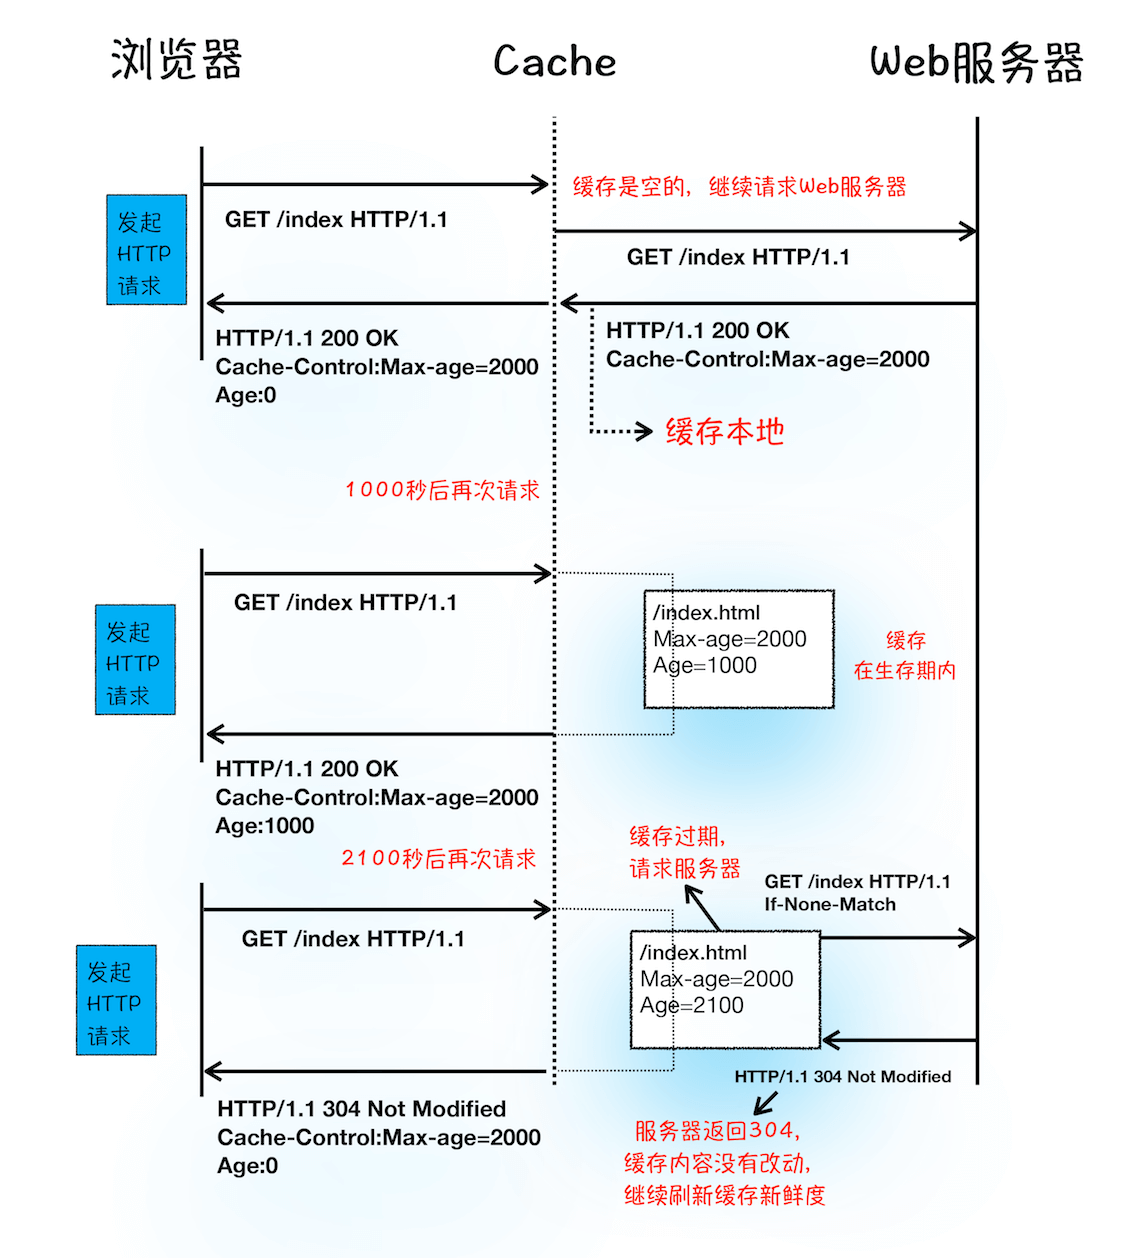
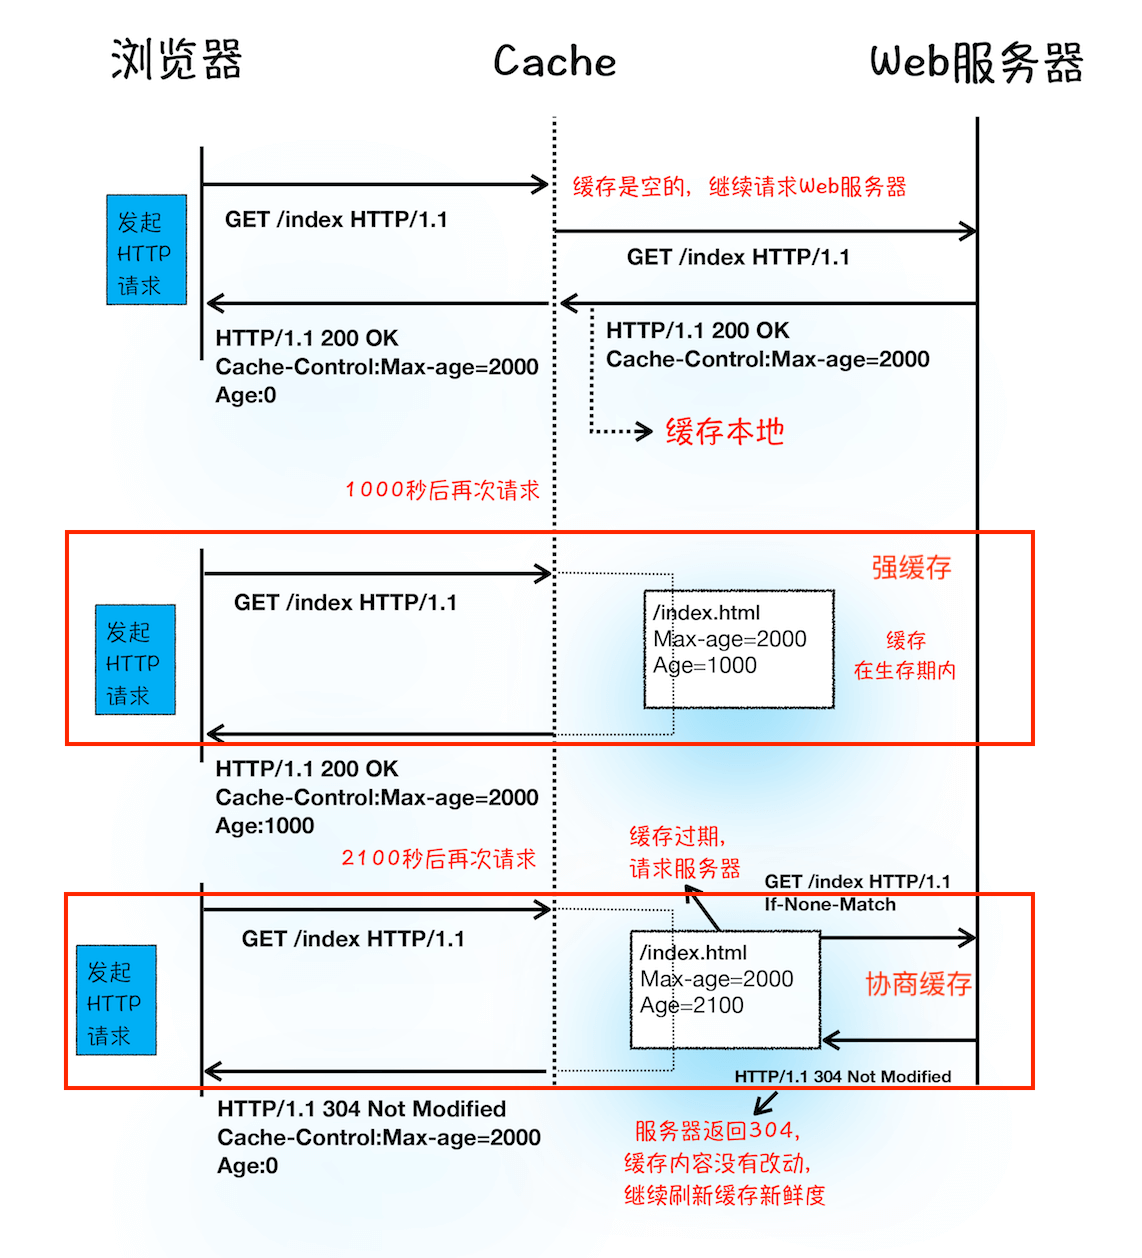
回顾http，缓存

diff --git a/浏览器/缓存-浏览器(http)缓存(强缓存，协商缓存).md b/浏览器/缓存-浏览器(http)缓存(强缓存，协商缓存).md
@@ -3,8 +3,8 @@
   - [浏览器缓存过程](#浏览器缓存过程)
   - [缓存机制](#缓存机制)
 - [强缓存](#强缓存)
-  - [http 头：Expires](#http-头expires)
-  - [http 头：Cache-Control](#http-头cache-control)
+  - [http 响应头：Expires](#http-响应头expires)
+  - [http 响应头：Cache-Control](#http-响应头cache-control)
 - [协商缓存](#协商缓存)
   - [协商缓存过程(相关状态码：304/200)](#协商缓存过程相关状态码304200)
   - [http 头：Last-Modified／If-Modified-since(http 1.0)](#http-头last-modifiedif-modified-sincehttp-10)
@@ -61,8 +61,8 @@ Web缓存知识体系，如下图:
 - `强缓存`优先于`协商缓存`进行，
 
 - 若强制缓存(相关http头：`Expires和Cache-Control`)生效则直接使用缓存，
-- 若强缓存不生效则进行协商缓存(相关http头：`Last-Modified / If-Modified-Since`和`Etag / If-None-Match`)，
-- 协商缓存由服务器决定是否使用缓存，
+- 若强缓存不生效（1. 缓存过期 2.Cache-Control: no-store）则进行协商缓存(相关http头：`Last-Modified / If-Modified-Since`和`Etag / If-None-Match`)，
+- 协商缓存由**服务器**决定是否使用缓存，
 - 若协商缓存失效，那么代表该请求的缓存失效，返回200，重新返回**资源和缓存标识**，再存入浏览器缓存中；
 - 生效则返回`304`和`not modified`，继续使用缓存。
 
@@ -73,24 +73,24 @@ Web缓存知识体系，如下图:
 
 强缓存可以通过设置两种**HTTP Header**实现：`Expires(1.0)`和`Cache-Control(1.1)`。
 
-## http 头：Expires
+## http 响应头：Expires
 
 `Expires`是一个**绝对**时间，是缓存过期时间。用以表达在这个时间点之前发起请求可以直接从浏览器中读取数据，而无需重新发起请求。值为一个时间戳。
 
 缺点：
-Expires 是 HTTP/1 的产物，**受限于本地时间**，如果修改了本地时间，可能会造成缓存失效。
+Expires 是 HTTP/1.0 的产物，**受限于本地时间**，如果修改了本地时间，可能会造成缓存失效。
 
 ```
 Expires: Wed, 22 Oct 2018 08:41:00 GMT // 表示资源会在 Wed, 22 Oct 2018 08:41:00 GMT 后过期，需要再次请求。
 ```
 
-## http 头：Cache-Control
+## http 响应头：Cache-Control
 
 `Cache-Control`的**优先级比Expires的优先级高**。是HTTP/1.1产物。该字段表示资源缓存最大有效时间，在该时间内，客户端不需要向服务器发送请求。
 
 Cache-Control解决了Expires在浏览器中，时间被手动更改导致缓存判断错误的问题。
 
-常见指令如下(完整列表参考[MDN](https://developer.mozilla.org/zh-CN/docs/Web/HTTP/Headers/Cache-Control))：
+**常见指令**如下(完整列表参考[MDN](https://developer.mozilla.org/zh-CN/docs/Web/HTTP/Headers/Cache-Control))：
 
 - `private`(默认值)：客户端可以缓存，代理服务器不能缓存
 - `public`：客户端和代理服务器都可缓存
@@ -115,7 +115,7 @@ Cache-Control解决了Expires在浏览器中，时间被手动更改导致缓存
 
 # 协商缓存
 
-协商缓存就是 **强制缓存失效，或者`Cache-Control：no-store`** 后，浏览器携带缓存标识向服务器发起请求，由服务器根据缓存标识决定是否使用缓存的过程。而整个过程是需要发出请求的。
+协商缓存就是 **强制缓存失效，1. 缓存过期 2. `Cache-Control：no-store`** 后，浏览器携带缓存标识向服务器发起请求，由服务器根据缓存标识决定是否使用缓存的过程。而整个过程是需要发出请求的。
 
 协商缓存由**2组字段**(不是2个)，控制协商缓存的字段有：
 
@@ -143,14 +143,14 @@ Cache-Control解决了Expires在浏览器中，时间被手动更改导致缓存
 **缺点：**
 
 1. 只要资源发生了修改，**无论内容是否发生了实质性的改变**，都会将该资源返回客户端。例如周期性重写，但这种情况下资源包含的数据实质是一样的。
-2. 以时刻作为标识，无法识别**一秒内多次修改的情况**。如果资源更新的速度是秒以下的单位，那么该缓存是不能被使用的，因为它的时间最低单位是秒。
+2. 以时刻作为标识，无法识别**一秒内多次修改的情况**。如果资源更新的速度是**秒**以下的单位，那么该缓存是不能被使用的，因为它的时间最低单位是秒。
 
 ## http 头：Etag/If-None-match(http 1.1)
 
 为了解决上述问题，出现了一组新的字段`Etag/In-None-Match`。
 
 - `Etag`是上一次加载资源时，**服务器**返回的当前资源文件的一个**唯一标识**。它的作用是用来标识资源**是否有变化**。
-- 浏览器在下一次发起请求时，会将上一次返回的Etag值赋值给`If-None-Match`并添加在 请求 Header 中。服务端匹配传入的值与上次是否一致，如果一致返回`304`，浏览器则读取本地缓存；否则返回`200`和更新后的资源及新的Etag
+- 浏览器在下一次发起请求时，会将上一次返回的Etag值赋值给`If-None-Match`并添加在 请求 Header 中。服务端匹配传入的值与上次是否一致，如果一致返回`304`，浏览器则读取本地缓存；否则返回`200和更新后的资源及新的Etag`
 
 **优点：**
 

diff --git a/浏览器/网络(1)-TCP协议，DNS解析(域名解析).md b/浏览器/网络(1)-TCP协议，DNS解析(域名解析).md
@@ -3,8 +3,8 @@
   - [三次握手](#三次握手)
     - [为什么要三次握手？](#为什么要三次握手)
     - [三次握手过程中可以携带数据吗？](#三次握手过程中可以携带数据吗)
-    - [SYN 洪泛攻击](#syn-洪泛攻击)
     - [如果第三次握手丢失了，客户端服务端会如何处理 - 重传机制](#如果第三次握手丢失了客户端服务端会如何处理---重传机制)
+    - [SYN 洪泛攻击](#syn-洪泛攻击)
   - [四次挥手](#四次挥手)
     - [等待2MSL的意义](#等待2msl的意义)
     - [为什么是4次挥手](#为什么是4次挥手)
@@ -67,20 +67,27 @@ http/1.1默认使用长连接，Connection:keep-alive，当一个网页打开完
 
 >简单的记忆就是，请求连接/接收 即 SYN = 1 的时候不能携带数据
 
-### SYN 洪泛攻击
-SYN Flood 属于典型的 DoS/DDoS 攻击。其攻击的原理很简单，就是用客户端在短时间内**伪造大量不存在的 IP 地址，并向服务端疯狂发送SYN**。对于服务端而言，会产生两个危险的后果:
-
-* 处理大量的SYN包并返回对应ACK, 势必有大量连接处于SYN_RCVD状态，从而占满整个半连接队列，无法处理正常的请求。
-* 由于是不存在的 IP，服务端长时间收不到客户端的ACK，会导致服务端不断重发数据，直到耗尽服务端的资源。
-
 ### 如果第三次握手丢失了，客户端服务端会如何处理 - 重传机制
 服务器发送完 SYN-ACK 包，如果未收到客户端响应的确认包，也即**第三次握手丢失**。那么服务器就会进行首次**重传**，若等待一段时间仍未收到客户确认包，就进行第二次重传。如果重传次数超过系统规定的最大重传次数，则系统将该连接信息从半连接队列中删除。
 
 注意，每次重传等待的时间不一定相同，一般会是指数增长，例如间隔时间为 1s，2s，4s，8s…
 
 
+### SYN 洪泛攻击
+SYN Flood 属于典型的 DoS/DDoS 攻击。其攻击的原理很简单，就是用客户端在短时间内**伪造大量不存在的 IP 地址，并向服务端疯狂发送SYN**。对于服务端而言，会产生两个危险的后果:
+
+* 处理大量的SYN包并返回对应ACK, 势必有大量连接处于SYN_RCVD状态，从而占满整个半连接队列，无法处理正常的请求。
+* 由于是不存在的 IP，服务端长时间收不到客户端的ACK，会导致服务端不断重发数据，直到耗尽服务端的资源。
+
+
+
 ## 四次挥手
 四次挥手，关闭连接过程如下：
+
+<img src="./picture/network/tcp4.png"/>
+
+<details>
+<summary>更官方的解释</summary>
 
 <img src="./picture/network/tcp2.png" width= 70%/>
 
@@ -107,9 +114,12 @@ SYN Flood 属于典型的 DoS/DDoS 攻击。其攻击的原理很简单，就是
     PS:注意了，这个时候，客户端需要等待足够长的时间，具体来说，是 **2 个 MSL**(Maximum Segment Lifetime，报文最大生存时间), 在这段时间内如果客户端没有收到服务端的重发请求，那么表示 ACK 成功到达，挥手结束，否则客户端重发 ACK。 -->
 
 - **第一次挥手**： 若客户端认为数据发送完成，则它需要向服务端发送连接释放请求。
-- **第二次挥手**：服务端收到连接释放请求后，会告诉应用层要释放 TCP 链接。然后会发送 ACK 包，并进入 CLOSE_WAIT 状态，此时表明客户端到服务端的连接已经释放，**不再接收客户端发的数**据了。但是因为 TCP 连接是**双向的**，所以**服务端仍旧可以发送数据给客户端**。
-- **第三次挥手**：服务端如果此时还有**没发完的数据**会继续发送，完毕后会向客户端发送连接释放请求，然后服务端便进入 LAST-ACK 状态。
+- **第二次挥手**：服务端收到连接释放请求后，会告诉应用层要释放 TCP 链接。然后会发送 ACK 包，并进入 CLOSE_WAIT 状态，**此时表明客户端到服务端的连接已经释放，不再接收客户端发的数**据了。但是因为 TCP 连接是**双向的**，所以**服务端仍旧可以发送数据给客户端**。
+- **第三次挥手**：**表式服务端也想断开链接了**。服务端如果此时还有**没发完的数据**会继续发送，完毕后会向客户端发送连接释放请求，然后服务端便进入 LAST-ACK 状态。
 - **第四次挥手**： 客户端收到释放请求后，向服务端发送**确认应答**，此时客户端进入 TIME-WAIT 状态。该状态会持续 **2MSL**（最大段生存期，指报文段在网络中生存的时间，超时会被抛弃） 时间，若该时间段内没有服务端的重发请求的话，就进入 CLOSED 状态。当服务端收到确认应答后，也便进入 CLOSED 状态。挥手结束
+
+</details>
+
 
 
 ### 等待2MSL的意义

diff --git a/浏览器/浏览器事件.md b/浏览器/浏览器事件.md
@@ -2,20 +2,21 @@
 - [如何阻止事件冒泡](#如何阻止事件冒泡)
 - [对事件委托的理解](#对事件委托的理解)
 - [事件触发的过程是怎样的](#事件触发的过程是怎样的)
+- [js如何给元素添加点击事件](#js如何给元素添加点击事件)
 
-# 什么是事件？
+### 什么是事件？
 事件是用户操作网页时发生的交互动作，比如 click/move， 事件除了用户触发的动作外，还可以是文档加载，窗口滚动和大小调整。事件被封装成一个 event 对象，包含了该事件发生时的所有相关信息（ event 的属性）以及可以对事件进行的操作（ event 的方法）。
 
-# 如何阻止事件冒泡
+### 如何阻止事件冒泡
 **冒泡**指的是事件从目标元素冒泡到 document，依次检查经过的节点是否绑定了事件监听函数，如果有则执行。
 
 普通浏览器使用：`event.stopPropagation()`
 IE浏览器使用：`event.cancelBubble = true;`
 
-# 对事件委托的理解
+### 对事件委托的理解
 **事件委托本质上是利用了浏览器事件冒泡的机制**。因为事件在冒泡过程中会上传到父节点，父节点可以通过事件对象获取到目标节点，因此可以把子节点的监听函数定义在父节点上，由父节点的监听函数统一处理多个子元素的事件，这种方式称为事件委托（事件代理）。
 
-# 事件触发的过程是怎样的
+### 事件触发的过程是怎样的
 
 当用户在浏览器中进行操作时，例如点击一个按钮或滚动页面等，浏览器会接收到事件并按照以下步骤进行处理：
 
@@ -40,4 +41,11 @@ button.addEventListener('click', function() {
 }, true);
 ```
 
+### js如何给元素添加点击事件
+```js
+var btn = document.getElementById("myBtn");
+btn.addEventListener("click", function(){
+  alert("Button was clicked");
+});
+```
 

diff --git a/浏览器/web API-XMLHttpRequest，及ajax,axios,fetch之间的区别.md b/浏览器/web API-XMLHttpRequest，及ajax,axios,fetch之间的区别.md
@@ -48,7 +48,7 @@ XMLHttpRequest可以做到：
 
  function GetWebData(URL){
     /**
-     * 1:新建XMLHttpRequest请求对象
+     * 1:创建XMLHttpRequest请求对象
      */
     let xhr = new XMLHttpRequest()
 
@@ -121,8 +121,8 @@ XMLHttpRequest 的回调函数主要有下面几种：
 
 1. 渲染进程会将请求发送给网络进程，
 2. 然后网络进程负责资源的下载，
-3. 等网络进程接收到数据之后，就会利用 IPC 来通知渲染进程；
-4. 渲染进程接收到消息之后，会将 xhr 的回调函数封装成任务并添加到消息队列中，
+3. 等网络进程接收到数据之后，就会利用 `IPC` 来通知渲染进程；
+4. 渲染进程接收到消息之后，会将 xhr 的**回调函数**封装成任务并添加到消息队列中，
 5. 等主线程循环系统执行到该任务的时候，就会根据相关的状态来调用对应的回调函数。
 
 * 如果网络请求出错了，就会执行 xhr.onerror；
